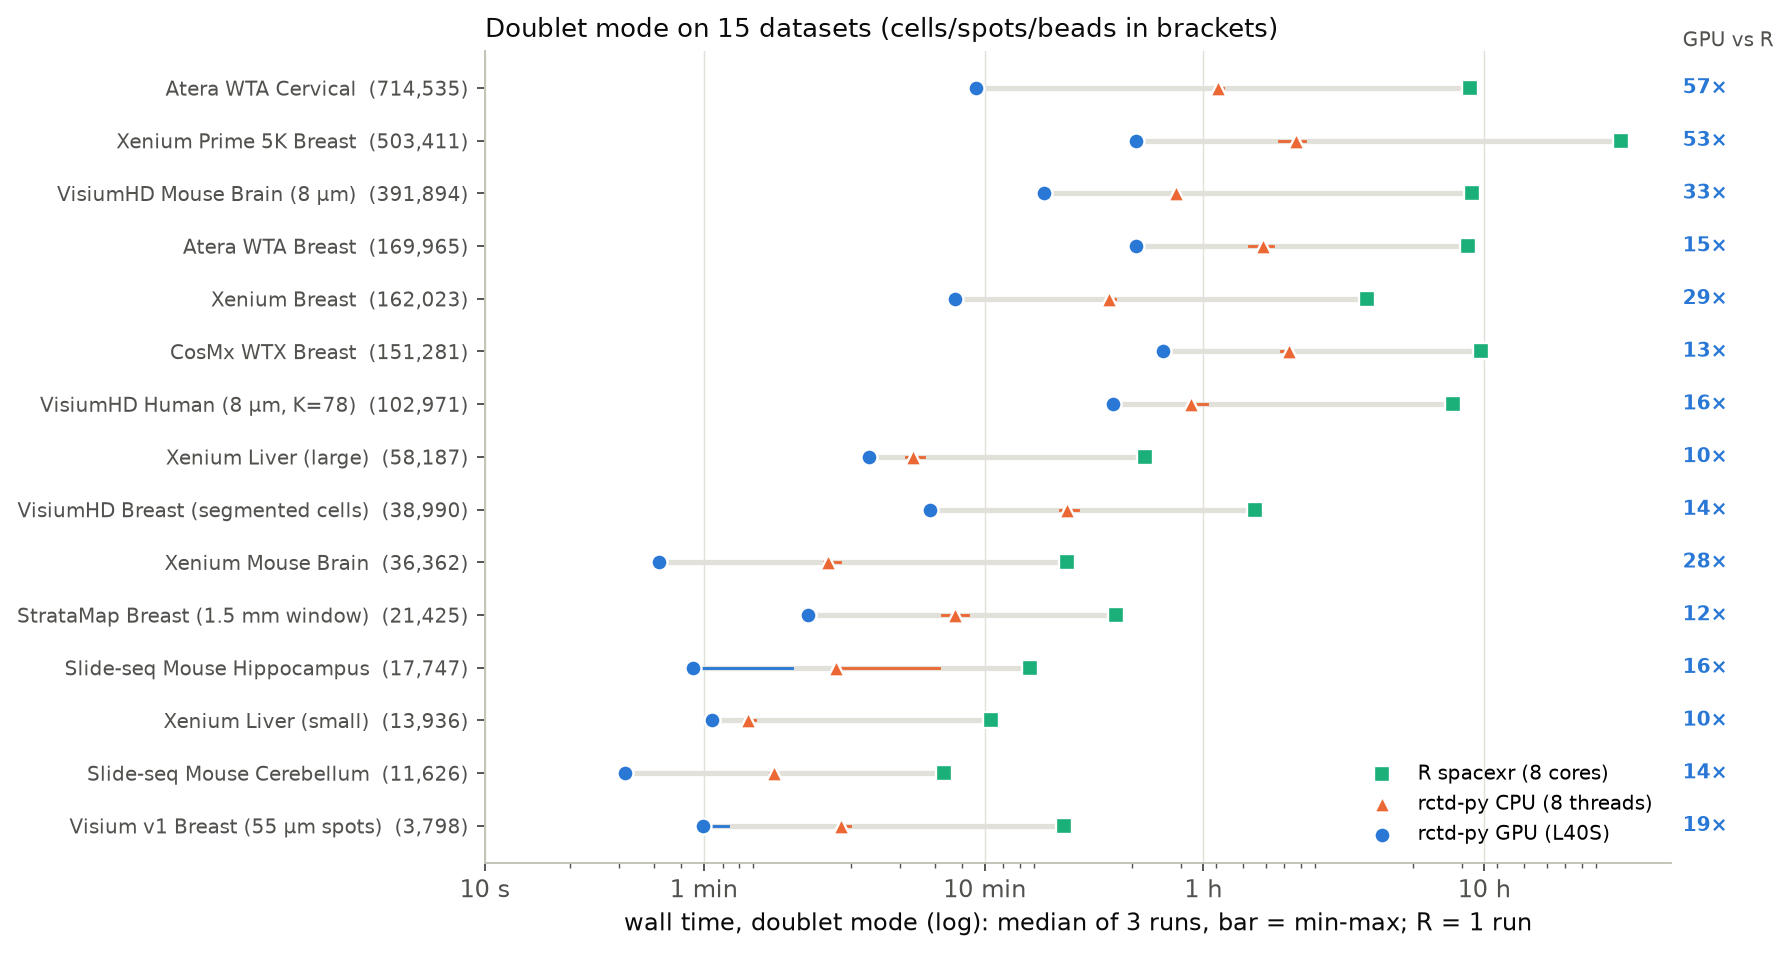
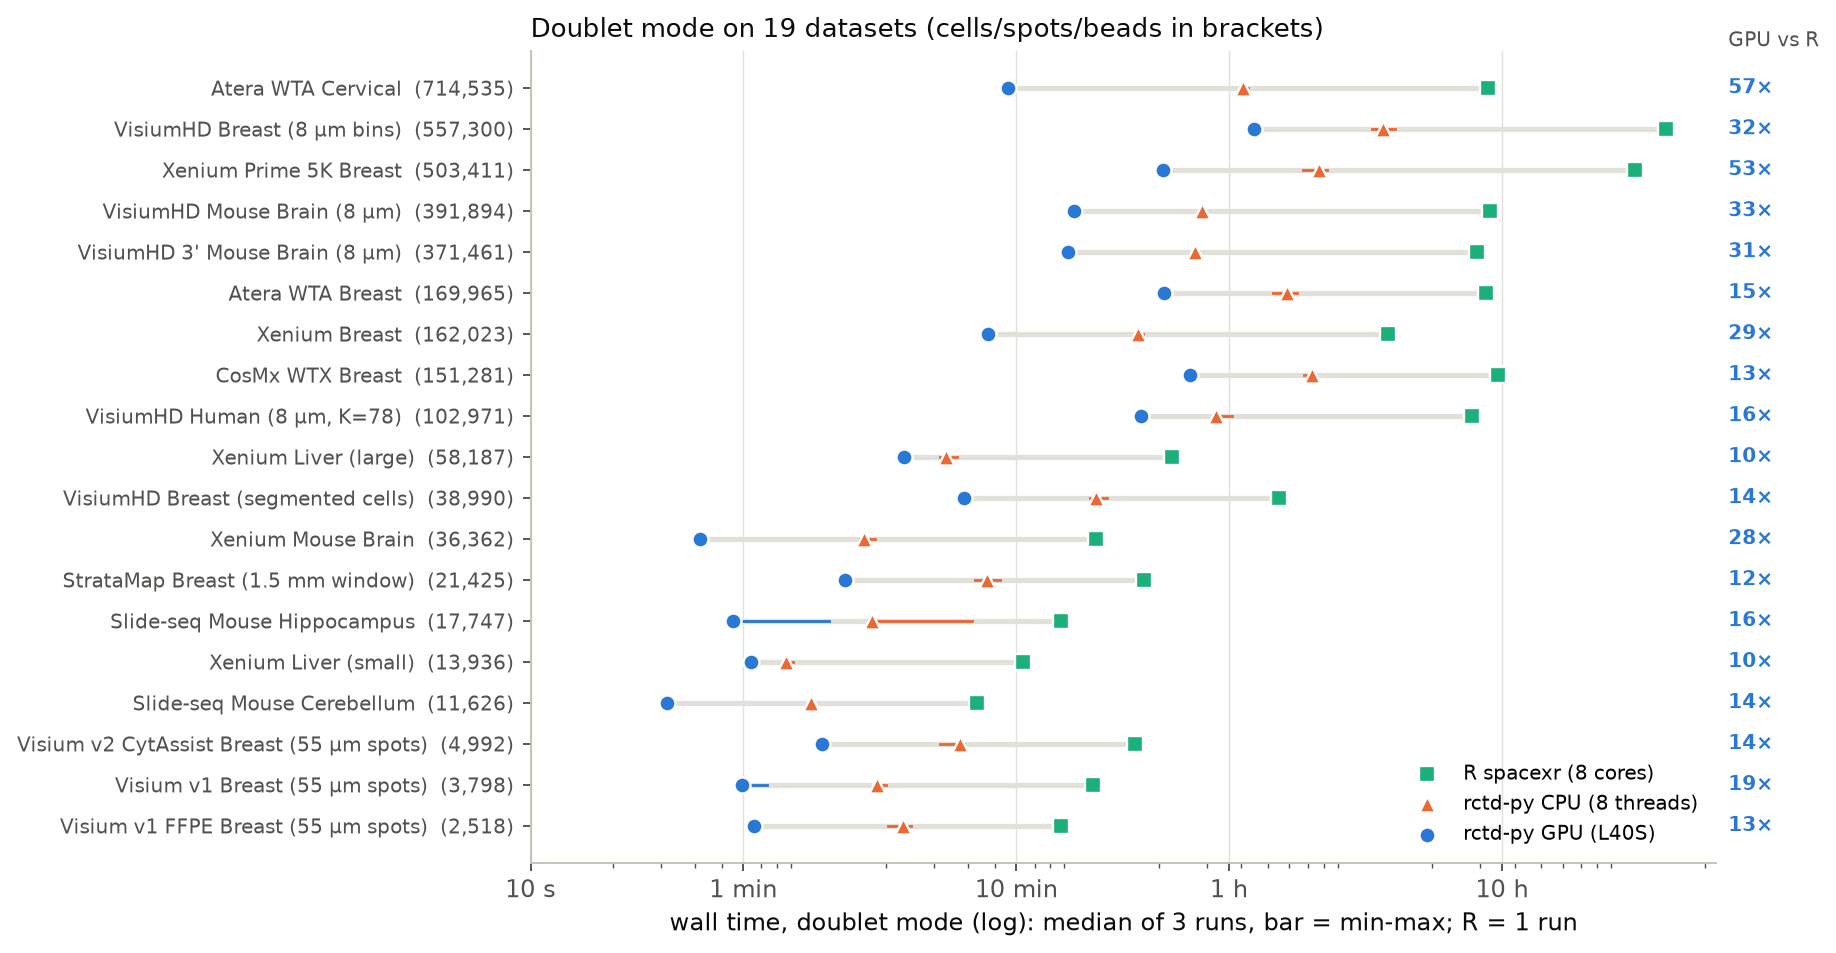
docs(benchmarks): add the 4 Visium datasets (19 in total)
Visium HD 3' mouse brain, Visium HD breast 8 um bins, Visium v2 CytAssist and Visium v1 FFPE
breast, timed with the 0.4.0 code (GPU and CPU median of 3, R 1 run). R's multi mode on the bins
dataset was not timed; its full and doublet runs took 30 and 40 h. Ranges stay 10-57x in doublet
mode (median 16x), 5-119x full, 5-21x multi; the five datasets above 300,000 pixels are 31-57x.

Memory guidance updated for the new maximum: rctd-py copies the whole count matrix to the GPU, so
557,300 bins x 4,638 genes peaked at 24-29 GiB in every mode at batch_size 10000 and 136 GiB host
RAM; batch_size does not shrink that part, float32 halves it.

diff --git a/.claude/skills/rctd-py/SKILL.md b/.claude/skills/rctd-py/SKILL.md
@@ -5,7 +5,7 @@ description: GPU-accelerated Python RCTD cell type deconvolution for spatial tra
 
 # rctd-py: GPU-Accelerated Spatial Deconvolution
 
-Python reimplementation of RCTD (Cable et al., *Nature Biotechnology* 2022) with PyTorch GPU acceleration. 10-57× faster than R `spacexr` in doublet mode (15 datasets, one L40S vs 8 R cores) with the same calls as R `spacexr` wherever both pick the same sigma (99.0-99.9% of spot classes when sigma differs by 0.01-0.02, as between two R runs; 19 datasets, v0.4.0). Pure Python on PyTorch; runs on CPU or GPU, no R runtime required.
+Python reimplementation of RCTD (Cable et al., *Nature Biotechnology* 2022) with PyTorch GPU acceleration. 10-57× faster than R `spacexr` in doublet mode (19 datasets, one L40S vs 8 R cores) with the same calls as R `spacexr` wherever both pick the same sigma (99.0-99.9% of spot classes when sigma differs by 0.01-0.02, as between two R runs; 19 datasets, v0.4.0). Pure Python on PyTorch; runs on CPU or GPU, no R runtime required.
 
 ## When to use
 
@@ -159,7 +159,7 @@ assert "cell_type" in adata.obs.columns
 | `--output / -o` | `<stem>_rctd.h5ad` | Output h5ad path |
 | `--device` | `auto` | `auto`, `cpu`, `cuda` |
 | `--batch-size` | `10000` | Pixels per IRWLS launch (integer). `"auto"` (sized from free VRAM) exists only in Python `run_rctd(batch_size="auto")` |
-| `--dtype` | `float64` | `float32` is up to 2.3× faster in doublet mode (median 1.6× on the 15 benchmark datasets, L40S; no gain on the smallest), with ≥ 99.997% of spot classes unchanged (see GPU notes below) |
+| `--dtype` | `float64` | `float32` is up to 2.3× faster in doublet mode (median 1.6× on 15 of the benchmark datasets, L40S; no gain on the smallest), with ≥ 99.997% of spot classes unchanged (see GPU notes below) |
 | `--cell-type-col` | `cell_type` | Reference `obs` column with labels |
 | `--umi-min` | `100` | **Use 20 for Xenium**; 100 is the R `spacexr` default |
 | `--umi-max` | `20000000` | Per-pixel UMI ceiling |
@@ -183,7 +183,7 @@ assert "cell_type" in adata.obs.columns
 
 ### `dtype="float32"` is usually the better default on GPU
 
-The default `dtype="float64"` matches R `spacexr` arithmetic and is the safest choice when validating against R. On a data-center GPU with strong fp64 (A100, H100) the cost is small. On consumer / workstation GPUs (RTX, L40S, Blackwell sm_120) fp64 throughput is 1/32-1/64 of fp32, and `dtype="float32"` is **up to 2.3× faster in doublet mode (median 1.6× on the 15 benchmark datasets, L40S; no gain on the smallest), with ≥ 99.997% of spot classes unchanged**. In a synthetic example (L40S, sm_89, N=20000 spots, K=30 types): 76 s → 39 s; `spot_class` agreement with the fp64 run was 100%, weights diff `<1e-6`. See `tests/test_fp32_concordance.py` for the locked-in assertion.
+The default `dtype="float64"` matches R `spacexr` arithmetic and is the safest choice when validating against R. On a data-center GPU with strong fp64 (A100, H100) the cost is small. On consumer / workstation GPUs (RTX, L40S, Blackwell sm_120) fp64 throughput is 1/32-1/64 of fp32, and `dtype="float32"` is **up to 2.3× faster in doublet mode (median 1.6× on 15 of the benchmark datasets, L40S; no gain on the smallest), with ≥ 99.997% of spot classes unchanged**. In a synthetic example (L40S, sm_89, N=20000 spots, K=30 types): 76 s → 39 s; `spot_class` agreement with the fp64 run was 100%, weights diff `<1e-6`. See `tests/test_fp32_concordance.py` for the locked-in assertion.
 
 For validation against R `spacexr`, stay on fp64 (closest to R's arithmetic) and pass R's sigma with `--sigma-override` / `sigma_override`; results agree closely, not bit for bit.
 
@@ -211,9 +211,10 @@ Peak VRAM grows with the batch size and with the number of genes and cell types;
 |------|------:|--:|----------:|
 | Xenium panels | 242-376 | 22-45 | 5.3-5.6 GiB |
 | Xenium Prime 5K | 4,929 | 40 | 13 GiB |
-| Whole transcriptome (Visium, Visium HD, Slide-seq, CosMx, Atera) | 15-23k | 7-78 | 7-16 GiB |
+| Whole transcriptome (Visium, Visium HD, Slide-seq, CosMx, Atera), up to 714k pixels | 15-23k | 7-78 | 7-16 GiB |
+| Visium HD breast 8 µm bins, 557k pixels | 17.6k | 40 | 24-29 GiB |
 
-On a smaller GPU, lower `--batch-size` (e.g. 2000-5000), or use `--dtype float32`, which about halves the peak on whole-transcriptome data.
+rctd-py copies the whole count matrix (pixels × fitted genes) to the GPU, so very large datasets need VRAM whatever the batch size: 557k bins × 4,638 genes is 19 GiB in float64 alone. On a smaller GPU, lower `--batch-size` (e.g. 2000-5000), or use `--dtype float32`, which about halves the peak on whole-transcriptome data, the count matrix included.
 
 `run_rctd(batch_size="auto")` (Python API only; the CLI takes an integer) reads *free* VRAM at startup and budgets 70% of it, using a per-pixel estimate of the IRWLS intermediates. On a shared GPU where another job's allocation can grow during the run, pin an explicit batch size to avoid mid-run OOM, and consider `PYTORCH_ALLOC_CONF=expandable_segments:True`.
 
@@ -319,7 +320,7 @@ saveRDS(spatial_obj, "spatial_rctd.rds")
 3. **Match reference to sample condition.** If your cohort mixes diagnoses (e.g. malignancy A vs B), do *not* run every sample against one combined reference containing disease-specific malignant prototypes -- RCTD will misassign healthy/reactive cells of the wrong-diagnosis samples to those prototypes. Branch on the sample's metadata column and pick the reference per sample.
 4. **Avoid `/` in cell-type names.** zarr/h5 may convert it to `_`. Pick consistent ASCII labels.
 5. **Downsample large references** to ~500 cells/type; more rarely improves the fit.
-6. **Prefer `dtype="float32"` on consumer GPUs.** Up to 2.3× faster in doublet mode (median 1.6× on the 15 benchmark datasets, L40S; no gain on the smallest), with ≥ 99.997% of spot classes unchanged. Stay on fp64 for validation runs against R `spacexr` (closest to R's arithmetic), with R's sigma passed via `--sigma-override`; results agree closely, not bit for bit.
+6. **Prefer `dtype="float32"` on consumer GPUs.** Up to 2.3× faster in doublet mode (median 1.6× on 15 of the benchmark datasets, L40S; no gain on the smallest), with ≥ 99.997% of spot classes unchanged. Stay on fp64 for validation runs against R `spacexr` (closest to R's arithmetic), with R's sigma passed via `--sigma-override`; results agree closely, not bit for bit.
 
 ## Gotchas
 

diff --git a/docs/benchmarks.md b/docs/benchmarks.md
@@ -1,13 +1,13 @@
 # Benchmarks
 
-rctd-py against R spacexr on 15 datasets from eight platforms (Xenium, Xenium Prime 5K, CosMx,
-Atera, Visium, Visium HD, Slide-seq and StrataMap), from 3,798 to 714,535 cells, spots or beads,
-each run in all three modes.
+rctd-py against R spacexr on 19 datasets from eight platforms (Xenium, Xenium Prime 5K, CosMx,
+Atera, Visium v1, v1 FFPE and v2 CytAssist, Visium HD probe-based and 3', Slide-seq and StrataMap),
+from 2,518 to 714,535 cells, spots or beads, each run in all three modes.
 
 On one GPU, rctd-py is 10-57x faster than R in doublet mode (median 16x), 5-119x in full mode and
 5-21x in multi mode. On 8 CPU threads, without a GPU, it is 3.7-14x faster than R in doublet mode.
 
-![Doublet mode: R spacexr, rctd-py CPU and rctd-py GPU wall time on 15 datasets](benchmark.png)
+![Doublet mode: R spacexr, rctd-py CPU and rctd-py GPU wall time on 19 datasets](benchmark.png)
 
 ![Wall time against dataset size in full, doublet and multi mode](benchmark_modes.png)
 
@@ -26,15 +26,23 @@ On one GPU, rctd-py is 10-57x faster than R in doublet mode (median 16x), 5-119x
   of 0.4.0. On the GPU it runs at the same speed as 0.3.9: the 39 GPU timings that 0.3.9 also has
   (all but the two Slide-seq datasets) are within 6% of 0.3.9's. 0.4.0 adds 5-20 s per run for
   sigma estimation (`N_fit` 1000 instead of 100); its exact box-QP solve costs no measurable time
-  (Visium HD K=78, doublet: 1,718 s vs 1,726 s).
+  (Visium HD K=78, doublet: 1,718 s vs 1,726 s). The four datasets added last (Visium HD 3' mouse
+  brain, Visium HD breast 8 µm bins, Visium v2 CytAssist and Visium v1 FFPE breast) were timed with
+  the 0.4.0 code.
 
 ## Runtime
 
 | Dataset | Platform | Cells | Genes | K | Mode | R spacexr | rctd-py CPU | rctd-py GPU | GPU vs R |
 |---|---|---:|---:|---:|---|---:|---:|---:|---:|
+| Visium v1 FFPE Breast (55 µm spots) | Visium v1 FFPE | 2,518 | 16,781 | 40 | full | 14.8 min | 2.3 min | 37 s | 24x |
+| | | | | | doublet | 14.5 min | 3.8 min | 66 s | 13x |
+| | | | | | multi | 14.2 min | 4.1 min | 65 s | 13x |
 | Visium v1 Breast (55 µm spots) | Visium v1 | 3,798 | 17,628 | 40 | full | 12.8 min | 53 s | 21 s | 37x |
 | | | | | | doublet | 19.1 min | 3.1 min | 60 s | 19x |
 | | | | | | multi | 18.5 min | 4.1 min | 59 s | 19x |
+| Visium v2 CytAssist Breast (55 µm spots) | Visium v2 CytAssist | 4,992 | 17,215 | 40 | full | 15.9 min | 3.0 min | 44 s | 22x |
+| | | | | | doublet | 27.3 min | 6.2 min | 1.9 min | 14x |
+| | | | | | multi | 26.9 min | 6.7 min | 1.8 min | 15x |
 | Slide-seq Mouse Cerebellum | Slide-seq V2 | 11,626 | 19,915 | 19 | full | 2.8 min | 46 s | 14 s | 12x |
 | | | | | | doublet | 7.2 min | 1.8 min | 32 s | 14x |
 | | | | | | multi | 6.2 min | 2.0 min | 27 s | 14x |
@@ -68,30 +76,40 @@ On one GPU, rctd-py is 10-57x faster than R in doublet mode (median 16x), 5-119x
 | Atera WTA Breast | Atera (18k WTA) | 169,965 | 17,949 | 40 | full | 4.3 h | 29.8 min | 7.6 min | 34x |
 | | | | | | doublet | 8.7 h | 1.6 h | 34.6 min | 15x |
 | | | | | | multi | 5.3 h | 1.9 h | 33.3 min | 10x |
+| VisiumHD 3' Mouse Brain (8 µm) | Visium HD 3' (poly-A) | 371,461 | 19,327 | 22 | full | 4.7 h | 20.3 min | 5.6 min | 50x |
+| | | | | | doublet | 8.1 h | 45.0 min | 15.5 min | 31x |
+| | | | | | multi | 2.9 h | 55.3 min | 12.3 min | 14x |
 | VisiumHD Mouse Brain (8 µm) | Visium HD | 391,894 | 15,331 | 22 | full | 5.1 h | 25.1 min | 5.6 min | 55x |
 | | | | | | doublet | 9.0 h | 48.0 min | 16.3 min | 33x |
 | | | | | | multi | 2.9 h | 46.6 min | 12.4 min | 14x |
 | Xenium Prime 5K Breast | Xenium Prime 5K | 503,411 | 4,929 | 40 | full | 24.6 h | 80.7 min | 21.3 min | 69x |
 | | | | | | doublet | 30.7 h | 2.1 h | 34.5 min | 53x |
 | | | | | | multi | 4.1 h | 2.1 h | 27.4 min | 9x |
+| VisiumHD Breast (8 µm bins) | Visium HD | 557,300 | 17,585 | 40 | full | 30.2 h | 48.5 min | 26.5 min | 68x |
+| | | | | | doublet | 40.0 h | 3.7 h | 74.2 min | 32x |
+| | | | | | multi | not timed (2) | 4.1 h | 66.2 min | - |
 | Atera WTA Cervical | Atera (18k WTA) | 714,535 | 17,949 | 7 | full | 3.6 h | 7.9 min | 1.8 min | 119x |
 | | | | | | doublet | 8.9 h | 67.6 min | 9.4 min | 57x |
 | | | | | | multi | stopped (1) | 37.0 min | 8.9 min | - |
 
-The largest gains are on the largest datasets: 53-57x in doublet mode at 500,000 cells and more.
+The largest gains are on the largest datasets: 31-57x in doublet mode on the five above 300,000 cells.
 The GPU's lead over rctd-py on CPU is smallest on the two Xenium liver datasets (376 genes, 45 cell
-types: 1.3-1.5x) and on Visium HD with 78 cell types (1.4-2.3x); on the other 12 datasets it is
-2.5-7.2x.
+types: 1.3-1.5x) and on Visium HD with 78 cell types (1.4-2.3x); on the other 16 datasets it is
+1.8-7.2x.
 
 (1) R's multi mode stopped after 3.2 hours with `process_bead_multi: no cell types passed weight
 threshold on full mode`: when one pixel has no candidate type, R ends the whole run. rctd-py keeps
 that pixel's highest-weight type and finishes (see {doc}`r_spacexr`).
 
+(2) Not timed. R's full and doublet runs on this dataset took 30 and 40 hours.
+
 ## Memory
 
 | Dataset | Cells | K | Peak VRAM | Peak RAM (GPU run) | Peak RAM (CPU run) |
 |---|---:|---:|---:|---:|---:|
+| Visium v1 FFPE Breast (55 µm spots) | 2,518 | 40 | 9.3 GiB | 3.6 GiB | 10 GiB |
 | Visium v1 Breast (55 µm spots) | 3,798 | 40 | 9.5 GiB | 4.1 GiB | 11 GiB |
+| Visium v2 CytAssist Breast (55 µm spots) | 4,992 | 40 | 9.5 GiB | 4.6 GiB | 11 GiB |
 | Slide-seq Mouse Cerebellum | 11,626 | 19 | 7.2 GiB | 6.0 GiB | 8.2 GiB |
 | Xenium Liver (small) | 13,936 | 45 | 5.3 GiB | 5.0 GiB | 4.6 GiB |
 | Slide-seq Mouse Hippocampus | 17,747 | 17 | 7.7 GiB | 6.6 GiB | 8.3 GiB |
@@ -103,8 +121,10 @@ that pixel's highest-weight type and finishes (see {doc}`r_spacexr`).
 | CosMx WTX Breast | 151,281 | 40 | 15 GiB | 40 GiB | 40 GiB |
 | Xenium Breast | 162,023 | 40 | 5.6 GiB | 4.6 GiB | 12 GiB |
 | Atera WTA Breast | 169,965 | 40 | 16 GiB | 45 GiB | 45 GiB |
+| VisiumHD 3' Mouse Brain (8 µm) | 371,461 | 22 | 14 GiB | 67 GiB | 68 GiB |
 | VisiumHD Mouse Brain (8 µm) | 391,894 | 22 | 14 GiB | 64 GiB | 64 GiB |
 | Xenium Prime 5K Breast | 503,411 | 40 | 13 GiB | 41 GiB | 42 GiB |
+| VisiumHD Breast (8 µm bins) | 557,300 | 40 | 29 GiB | 134 GiB | 136 GiB |
 | Atera WTA Cervical | 714,535 | 7 | 16 GiB | 112 GiB | 113 GiB |
 
 Peak VRAM is the most PyTorch allocated in any of the three runs, over all modes. With

diff --git a/docs/installation.md b/docs/installation.md
@@ -67,11 +67,15 @@ version matters (`nvidia-smi`, top right).
 
 ### GPU memory
 
-Peak VRAM grows with `batch_size` and with the number of genes and cell types. From Python,
-`run_rctd` defaults to `batch_size="auto"`, sized from the free GPU memory; the CLI defaults to
-`--batch-size 10000`. At `batch_size=10000` in float64, the {doc}`benchmarks <benchmarks>` peaked
-at 5.3-5.6 GiB on the small Xenium panels (242-376 genes) and at 7-16 GiB on data with thousands
-of genes. Set it explicitly to fit a smaller card or a shared GPU:
+Peak VRAM grows with `batch_size` and with the number of genes and cell types. It also grows with
+the number of pixels, because rctd-py copies the whole count matrix (pixels x fitted genes) to the
+GPU: for 557,300 Visium HD bins and 4,638 genes that matrix alone is 19 GiB in float64, and the run
+peaked at 24-29 GiB whatever the mode. `batch_size` does not shrink that part; `dtype="float32"`
+halves it. From Python, `run_rctd` defaults to `batch_size="auto"`, sized from the free GPU memory;
+the CLI defaults to `--batch-size 10000`. At `batch_size=10000` in float64, the
+{doc}`benchmarks <benchmarks>` peaked at 5.3-5.6 GiB on the small Xenium panels (242-376 genes) and
+at 7-16 GiB on the other datasets (up to 714,535 pixels). Set it explicitly to fit a smaller card
+or a shared GPU:
 
 | Available VRAM | Recommended `batch_size` |
 |---|---|
@@ -79,8 +83,8 @@ of genes. Set it explicitly to fit a smaller card or a shared GPU:
 | 8-16 GB | 5,000 |
 | < 8 GB | 2,000 |
 
-Peak host RAM ranged from 4 to 113 GiB on the benchmark datasets and grows with pixels times
-genes: the 714,535-cell, 18,028-gene Atera dataset needed 113 GiB.
+Peak host RAM ranged from 4 to 136 GiB on the benchmark datasets and is highest on large
+whole-transcriptome data: 136 GiB for 557,300 Visium HD bins, 113 GiB for 714,535 Atera cells.
 
 ## Known issue: NVRTC missing on Blackwell + CUDA 13
 

diff --git a/CHANGELOG.md b/CHANGELOG.md
@@ -20,7 +20,7 @@ The format follows [Keep a Changelog](https://keepachangelog.com/en/1.1.0/), and
 
 ### Documentation
 - **Documentation site** at [rctd-py.readthedocs.io](https://rctd-py.readthedocs.io): installation, quick start, tutorial, CLI and API reference, and a page for R spacexr users (#33, #34).
-- **Benchmarks refreshed**: 15 datasets from eight platforms (3,798 to 714,535 cells) in all three modes, rctd-py on one NVIDIA L40S and on 8 CPU threads against R spacexr 2.2.1 on 8 cores, median of 3 runs. GPU vs R: 10-57x in doublet mode, 5-119x in full mode, 5-21x in multi mode.
+- **Benchmarks refreshed**: 19 datasets from eight platforms (2,518 to 714,535 cells) in all three modes, rctd-py on one NVIDIA L40S and on 8 CPU threads against R spacexr 2.2.1 on 8 cores, median of 3 runs. GPU vs R: 10-57x in doublet mode, 5-119x in full mode, 5-21x in multi mode.
 - **Agreement with R** on the docs site now covers 19 datasets with the 0.4.0 code: identical calls where both sides pick the same sigma (11 datasets), 98.99-99.88% of spot classes where sigma differs by 0.01-0.02.
 - **Corrections from a docs audit**: R spacexr does not normalise full-mode weights either; the CLI's `--batch-size` defaults to 10000 (`"auto"` is Python-only); mode recommendations now follow spacexr (doublet for segmented cells and high-resolution data); float32 speed-up re-measured (up to 2.3x, median 1.6x); `max_iter` removed from the tutorial, since it is not read yet; README links and images work on PyPI.
 

diff --git a/docs/quickstart.md b/docs/quickstart.md
@@ -51,7 +51,7 @@ result = run_rctd(spatial, reference, mode="doublet", config=config, batch_size=
 On GPUs with limited fp64 throughput (L40S, RTX and Blackwell workstation cards),
 `dtype="float32"` is usually faster and needs about half the VRAM on whole-transcriptome data. On
 an L40S in doublet mode it was up to 2.3x faster (median 1.6x; no gain on the smallest dataset) on
-the 15 {doc}`benchmark <benchmarks>` datasets, with 99.997% or more of the spot classes unchanged. The default `float64` matches R's
+15 of the {doc}`benchmark <benchmarks>` datasets, with 99.997% or more of the spot classes unchanged. The default `float64` matches R's
 arithmetic.
 
 ## Hierarchical cell types (`class_df`)
